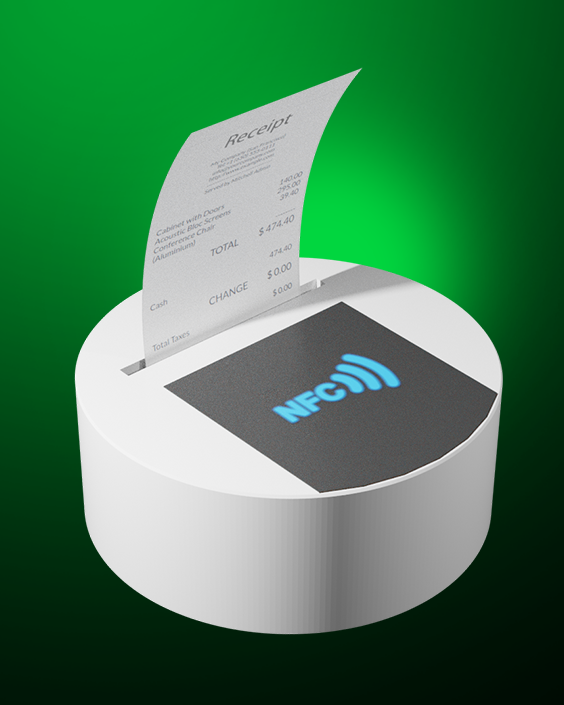
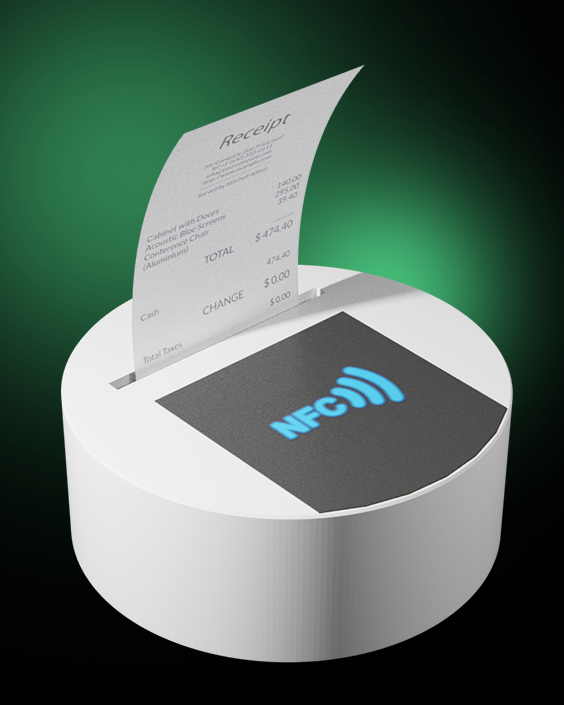
10/07/2023

diff --git a/app/dist/app.css b/app/dist/app.css
@@ -586,7 +586,7 @@ body[data-magic-cursor=hide] .mouse-cursor {
   top: -70%;
   left: -60%;
   z-index: -1;
-  background: radial-gradient(34.98% 34.98% at 50% 50%, #01fe4b 0%, rgba(6, 19, 45, 0) 100%);
+  background: radial-gradient(34.98% 34.98% at 50% 50%, #53e290 0%, rgba(6, 19, 45, 0) 100%);
   opacity: 0.5;
 }
 .shape.right {
@@ -1185,7 +1185,7 @@ a {
   border: 1px solid rgba(255, 255, 255, 0.1);
 }
 .action-btn span {
-  background: linear-gradient(264.28deg, #01fe4b -38.2%, #00932b 103.12%);
+  background: linear-gradient(264.28deg, #53e290 -38.2%, #47bb74 103.12%);
   padding: 10px 20px;
   border-radius: 10px;
   color: #fff;
@@ -1237,7 +1237,7 @@ a {
   visibility: hidden;
   cursor: pointer;
   overflow: hidden;
-  background: linear-gradient(264.28deg, #11a916 -38.2%, #27fe87 103.12%);
+  background: #53e290;
   display: flex;
   align-items: center;
   justify-content: center;
@@ -1260,7 +1260,7 @@ a {
 
 .block-text .sub-heading {
   padding: 7px 14px;
-  background: linear-gradient(89.96deg, rgb(20 241 5 / 99%) 0.03%, rgb(0 247 8) 49.67%, rgb(5 247 13) 99.96%);
+  background: #53e290;
   backdrop-filter: blur(4px);
   border: 1px solid rgba(14, 229, 40, 0.1);
   border-radius: 100px;
@@ -1290,7 +1290,7 @@ a {
   margin-bottom: 40px;
 }
 .banner .block-text .heading span {
-  background: linear-gradient(264.28deg, #2ab921db -38.2%, #27fe73 103.12%);
+  background: linear-gradient(264.28deg, #53e290 -38.2%, #47bb74 103.12%);
   -webkit-background-clip: text;
   -webkit-text-fill-color: transparent;
   position: relative;
@@ -1840,7 +1840,7 @@ a {
   justify-content: center;
 }
 .footer .footer__bottom .list-social li a:hover {
-  background: linear-gradient(264.28deg, #14d322 -38.2%, #27fe5f 103.12%);
+  background: #53e290;
 }
 @media only screen and (max-width: 1024px) {
   .footer .footer__bottom {
@@ -2833,7 +2833,7 @@ img.mfp-img {
   border-radius: 15px;
 }
 .speciality-box .icon {
-  background: linear-gradient(289.89deg, #008d00 -23.71%, #27fe4b 96.09%);
+  background: #53e290;
   backdrop-filter: blur(4px);
   width: 105px;
   height: 105px;
@@ -2888,7 +2888,7 @@ img.mfp-img {
 }
 
 .portfolio-box {
-  background: linear-gradient(#0b491c 0%, rgba(255, 255, 255, 0) 73.86%);
+  background: linear-gradient(#53e29045 0%, rgba(255, 255, 255, 0) 73.86%);
   backdrop-filter: blur(4px);
   border-radius: 16px;
   position: relative;
@@ -3770,7 +3770,7 @@ img.mfp-img {
 }
 
 .create__main {
-  background: linear-gradient(264.28deg, #28ef04f7 -38.2%, #1c6536 103.12%);
+  background: linear-gradient(264.28deg, #53e290 -38.2%, #47bb74 103.12%);
   border-radius: 26px;
   position: relative;
 }

diff --git a/index.html b/index.html
@@ -5,7 +5,7 @@
     <meta charset="UTF-8">
     <meta http-equiv="X-UA-Compatible" content="IE=edge">
     <meta name="viewport" content="width=device-width, initial-scale=1.0">
-    <title>Fade Bill</title>
+    <title>Rave Tech</title>
 
     <!-- Styles -->
 
@@ -858,7 +858,7 @@
                                 <li><a href="#">FAQ</a></li>
                                 <li><a href="#">Contact</a></li>
                             </ul>
-                            <p>Copyright © 2023, <span style="color: #01fe4b"> Rave Tech </span></p>
+                            <p>Copyright © 2023, <span style="color: #53e290"> Rave Tech </span></p>
                         </div>
                         <ul class="list-social">
                             <li><a href="#">
